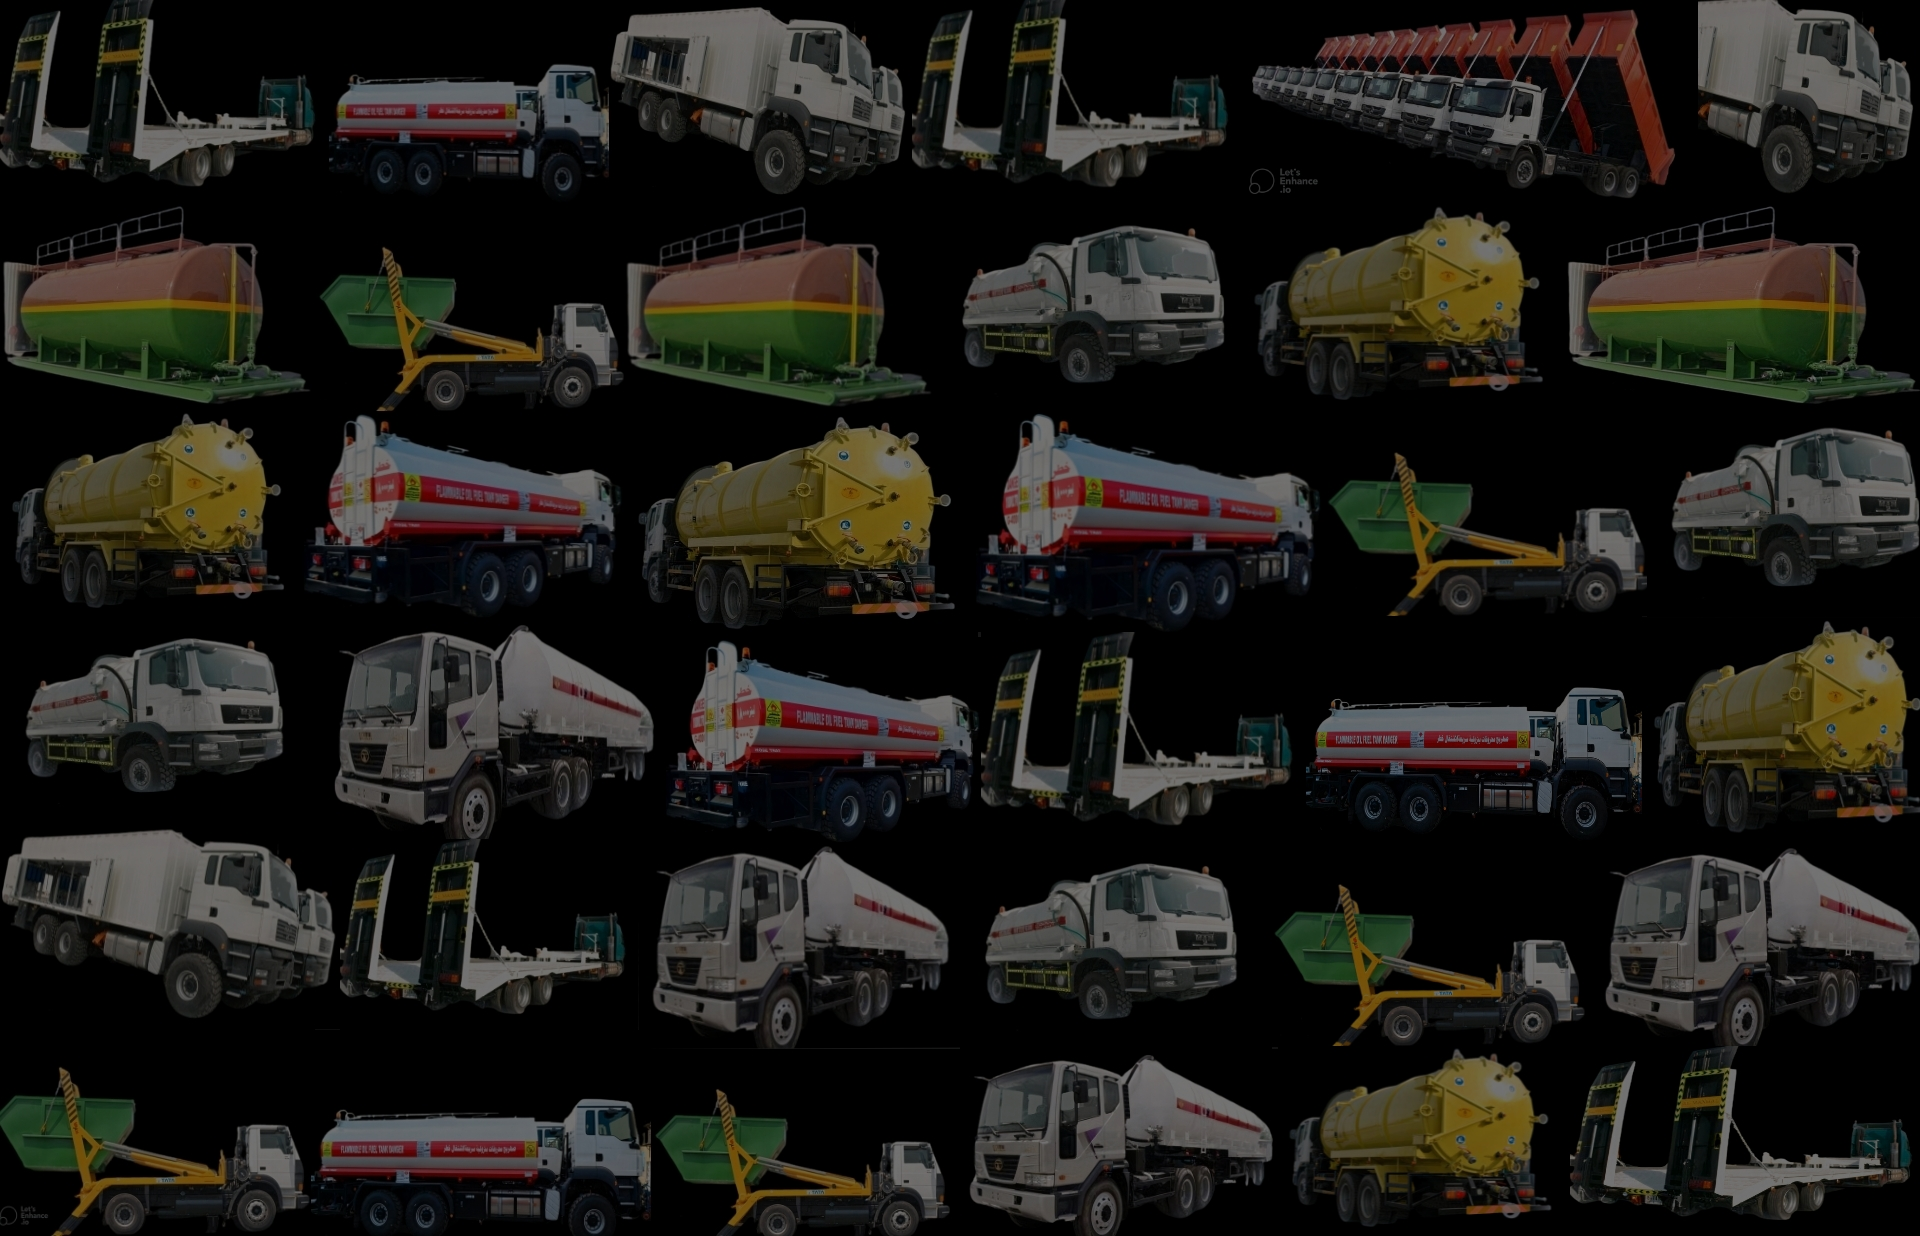
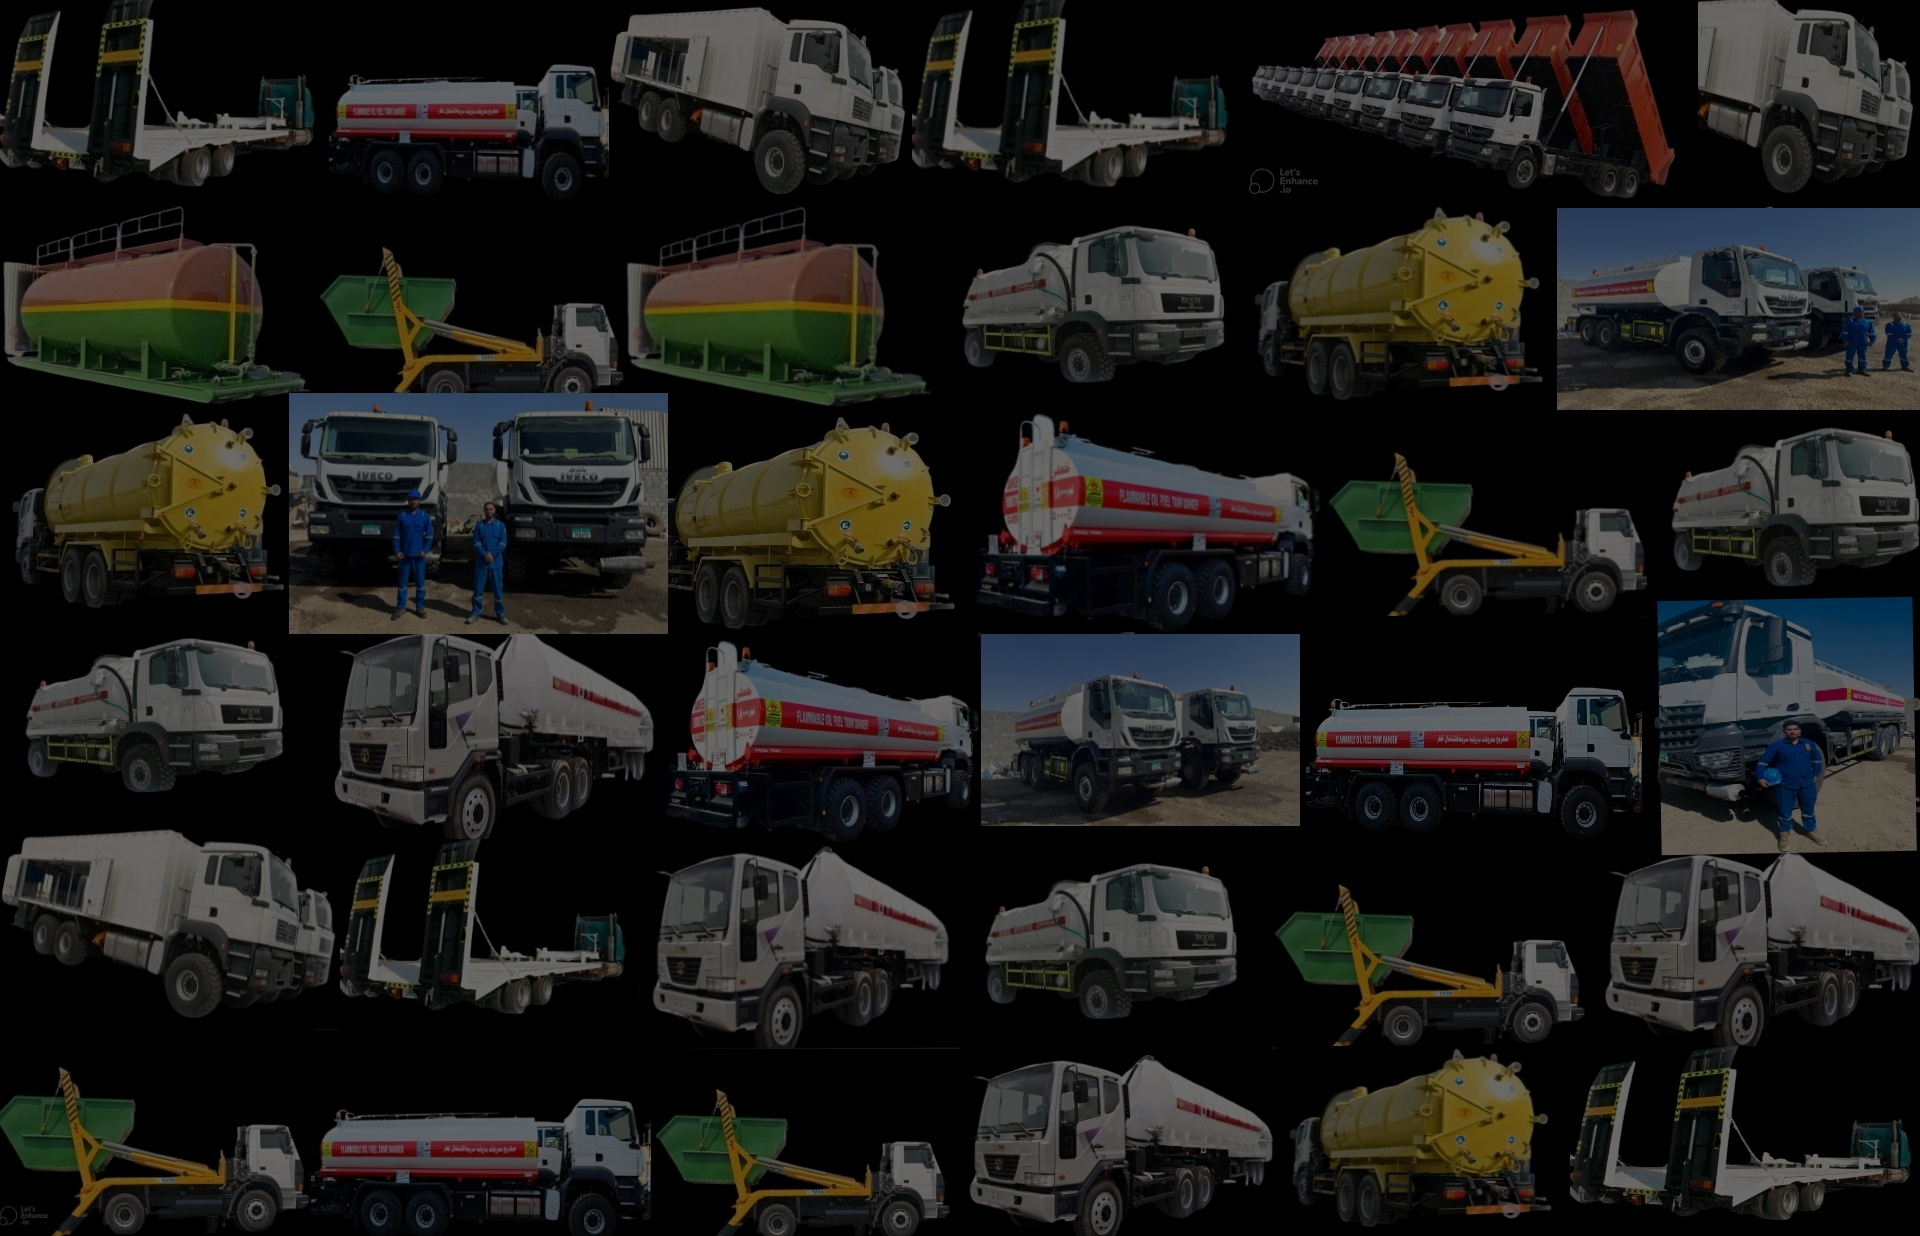
added pics

diff --git a/gallery.php b/gallery.php
@@ -32,6 +32,20 @@ require("./partials/header-1.php");
 
             <div id="gallery" class="gallery full-gallery ex-gallery zoom-gallery col-3">
 
+
+            <div class="item photography mobile">
+                    <div class="picframe">
+                        <a href="img/gallery/resized/19-1.jpg">
+                            <span class="overlay"></span>
+
+                            <span class="pf_text">
+                                <span class="project-name">Crew Memeber</span>
+                                <span class="small-border"></span>
+                            </span>
+                            <img src="img/gallery/resized/19.jpg" alt="" />
+                        </a>
+                    </div>
+                </div>
                 <!-- gallery item -->
                 <div class="item illustration">
                     <div class="picframe">
@@ -39,7 +53,7 @@ require("./partials/header-1.php");
                             <span class="overlay"></span>
 
                             <span class="pf_text">
-                                <span class="project-name">Military Logistic</span>
+                                <span class="project-name">Oil Tanker</span>
                                 <span class="small-border"></span>
                             </span>
                             <img src="img/gallery/resized/1.jpg" alt="" />
@@ -55,7 +69,7 @@ require("./partials/header-1.php");
                             <span class="overlay"></span>
 
                             <span class="pf_text">
-                                <span class="project-name">Our Heavy Truck</span>
+                                <span class="project-name">Oil Tanker</span>
                                 <span class="small-border"></span>
                             </span>
                             <img src="img/gallery/resized/4.jpg" alt="" />
@@ -63,7 +77,21 @@ require("./partials/header-1.php");
                     </div>
                 </div>
                 <!-- close gallery item -->
+<!-- close gallery item -->
+<div class="item photography mobile">
+                    <div class="picframe">
+                        <a href="img/gallery/resized/20-1.jpg">
+                            <span class="overlay"></span>
 
+                            <span class="pf_text">
+                                <span class="project-name">Our Heavy Tankers</span>
+                                <span class="small-border"></span>
+                            </span>
+                            <img src="img/gallery/resized/20.jpg" alt="" />
+                        </a>
+                    </div>
+                </div>
+                <!-- close gallery item -->
                 <!-- gallery item -->
                 <div class="item website mobile">
                     <div class="picframe">
@@ -71,7 +99,7 @@ require("./partials/header-1.php");
                             <span class="overlay"></span>
 
                             <span class="pf_text">
-                                <span class="project-name">Ocean Freight Cargo</span>
+                                <span class="project-name">Truck</span>
                                 <span class="small-border"></span>
                             </span>
                             <img src="img/gallery/resized/6.jpg" alt="" />
@@ -79,15 +107,27 @@ require("./partials/header-1.php");
                     </div>
                 </div>
                 <!-- close gallery item -->
-
-                <!-- gallery item -->
-                <div class="item illustration photography">
+                <div class="item photography mobile">
                     <div class="picframe">
-                        <a href="img/gallery/resized/9.jpg">
+                        <a href="img/gallery/resized/17-1.jpg">
                             <span class="overlay"></span>
 
                             <span class="pf_text">
-                                <span class="project-name">Heavy Duty Forklifts</span>
+                                <span class="project-name">Heavy Trucks</span>
+                                <span class="small-border"></span>
+                            </span>
+                            <img src="img/gallery/resized/17.jpg" alt="" />
+                        </a>
+                    </div>
+                </div>
+                <!-- gallery item -->
+                <div class="item illustration photography">
+                    <div class="picframe">
+                        <a href="img/gallery/resized/8.jpg">
+                            <span class="overlay"></span>
+
+                            <span class="pf_text">
+                                <span class="project-name">Light Trucks</span>
                                 <span class="small-border"></span>
                             </span>
                             <img src="img/gallery/resized/8.jpg" alt="" />
@@ -95,7 +135,19 @@ require("./partials/header-1.php");
                     </div>
                 </div>
                 <!-- close gallery item -->
+                <div class="item photography mobile">
+                    <div class="picframe">
+                        <a href="img/gallery/resized/16-1.jpg">
+                            <span class="overlay"></span>
 
+                            <span class="pf_text">
+                                <span class="project-name">Heavy Trucks with Highly Experienced Drivers</span>
+                                <span class="small-border"></span>
+                            </span>
+                            <img src="img/gallery/resized/16.jpg" alt="" />
+                        </a>
+                    </div>
+                </div>
                 <!-- gallery item -->
                 <div class="item website photography mobile">
                     <div class="picframe">
@@ -103,7 +155,7 @@ require("./partials/header-1.php");
                             <span class="overlay"></span>
 
                             <span class="pf_text">
-                                <span class="project-name">Logistics Aircraft</span>
+                                <span class="project-name">Waste Collection Trucks</span>
                                 <span class="small-border"></span>
                             </span>
                             <img src="img/gallery/resized/9.jpg" alt="" />
@@ -119,7 +171,7 @@ require("./partials/header-1.php");
                             <span class="overlay"></span>
 
                             <span class="pf_text">
-                                <span class="project-name">Logistics Leadership Training</span>
+                                <span class="project-name">LIght Trucks</span>
                                 <span class="small-border"></span>
                             </span>
                             <img src="img/gallery/resized/10.jpg" alt="" />
@@ -127,7 +179,19 @@ require("./partials/header-1.php");
                     </div>
                 </div>
                 <!-- close gallery item -->
+                <div class="item photography mobile">
+                    <div class="picframe">
+                        <a href="img/gallery/resized/18-1.png">
+                            <span class="overlay"></span>
 
+                            <span class="pf_text">
+                                <span class="project-name">Heavy Truckse</span>
+                                <span class="small-border"></span>
+                            </span>
+                            <img src="img/gallery/resized/18.png" alt="" />
+                        </a>
+                    </div>
+                </div>
                 <!-- gallery item -->
                 <div class="item illustration photography">
                     <div class="picframe">
@@ -135,7 +199,7 @@ require("./partials/header-1.php");
                             <span class="overlay"></span>
 
                             <span class="pf_text">
-                                <span class="project-name">Wood Container</span>
+                                <span class="project-name">Oil Container</span>
                                 <span class="small-border"></span>
                             </span>
                             <img src="img/gallery/resized/11.jpg" alt="" />
@@ -151,7 +215,7 @@ require("./partials/header-1.php");
                             <span class="overlay"></span>
 
                             <span class="pf_text">
-                                <span class="project-name">Railway Transport Logistics</span>
+                                <span class="project-name">Light Truck</span>
                                 <span class="small-border"></span>
                             </span>
                             <img src="img/gallery/resized/13.jpg" alt="" />
@@ -167,13 +231,24 @@ require("./partials/header-1.php");
                             <span class="overlay"></span>
 
                             <span class="pf_text">
-                                <span class="project-name">Cargo Airline</span>
+                                <span class="project-name">Heavy Trucks</span>
                                 <span class="small-border"></span>
                             </span>
                             <img src="img/gallery/resized/15.jpg" alt="" />
                         </a>
                     </div>
                 </div>
+
+                <!-- ------------------------------------------------------------------- -->
+                <!-- close gallery item -->
+         
+                
+                <!-- close gallery item -->
+               
+                
+                
+                <!-- close gallery item -->
+                
                 <!-- close gallery item -->
 
 
